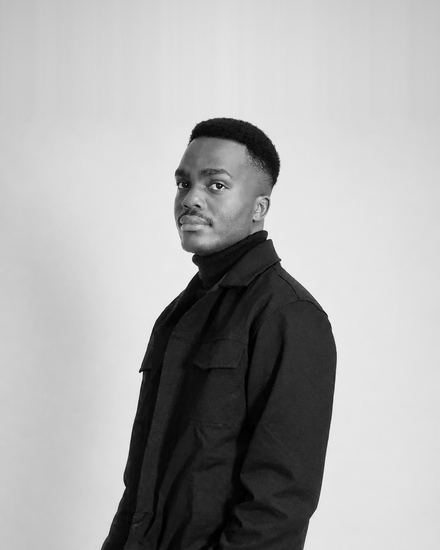
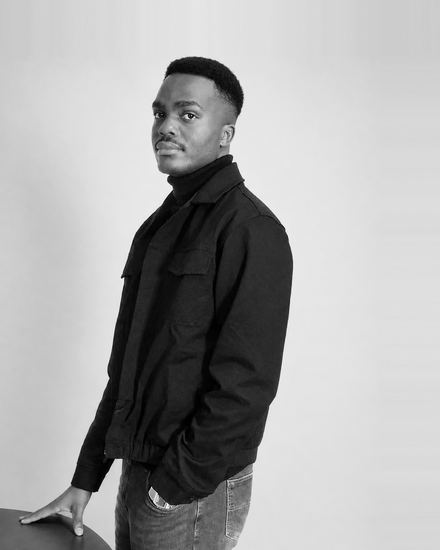
Reframe founder portrait to show hand and watch

diff --git a/assets/img/CREDITS.md b/assets/img/CREDITS.md
@@ -21,7 +21,7 @@ Supplied by KingMaker (all rights reserved, not for reuse):
 | File | Notes |
 |---|---|
 | `packages/pawn`, `packages/knight`, `packages/king` | Chess set on black marble. Already black and white, so they skip the grading step. |
-| `founder/sam` | Founder portrait. Background extended above the head so the arch's curve clears the hair. Skips the grading step. |
+| `founder/sam` | Founder portrait. Wall extended above the head and to the right so the 4:5 crop fits the head, the hand on the desk and the watch. Built with _tools-style script: top 150px, right 162px, source cropped at row 1410. Skips the grading step. |
 
 ## Still to supply
 
